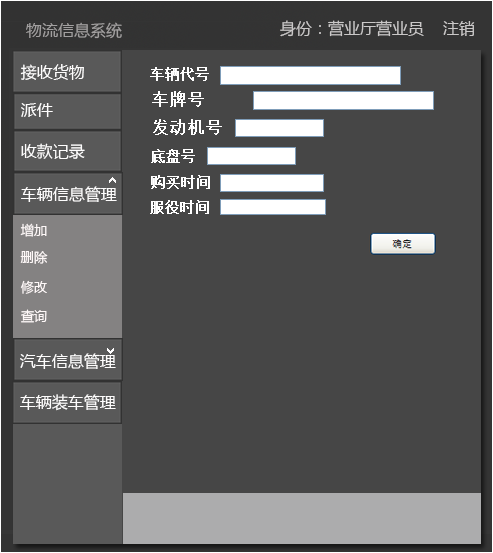
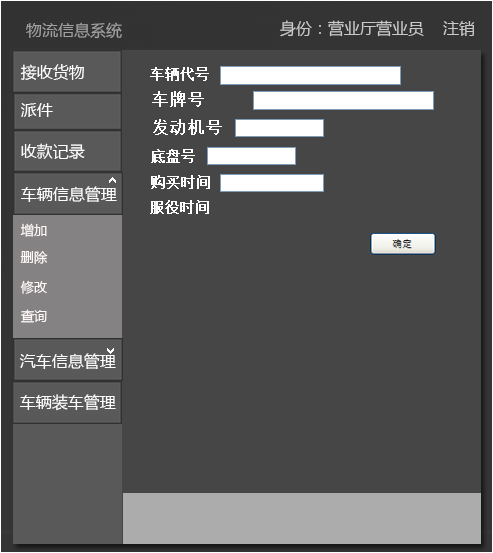
car

Changed region(s): [[0.426, 0.3382, 0.6694, 0.3996]]

diff --git a/ExpressSystem/client/src/main/java/nju/sec/yz/ExpressSystem/presentation/positionui/PositionCarAddUi.java b/ExpressSystem/client/src/main/java/nju/sec/yz/ExpressSystem/presentation/positionui/PositionCarAddUi.java
@@ -32,7 +32,7 @@ public class PositionCarAddUi extends JPanel{
 	private JTextField JTmechine;
 	private JTextField JTdipan;
 	private DateChooser buyTime;
-	private DateChooser workTime;
+	private JLabel workTime;
 	private JButton confirm;
 	private JLabel warning;
 	private ButtonComponents bc;
@@ -100,7 +100,11 @@ public class PositionCarAddUi extends JPanel{
 		
 		buyTime=new DateChooser(this, buyTime_x, buyTime_y);
 		
-		workTime=new DateChooser(this,workTime_x,workTime_y);
+		workTime=new JLabel();
+		workTime.setFont(new Font("Dialog",1,15));
+		workTime.setForeground(Color.WHITE);
+		workTime.setBounds(workTime_x, workTime_y, warning_w, warning_h);
+		add(workTime);
 
 		warning=new JLabel();
 		warning.setBounds(warning_x, warning_y, warning_w, warning_h);
@@ -129,6 +133,8 @@ public class PositionCarAddUi extends JPanel{
 					{
 						warning.setText("提交成功");
 						warning.setVisible(true);
+						workTime.setText(result.getMessage().substring(8));
+						workTime.setVisible(true);
 						repaint();
 					}
 					else{

diff --git a/ExpressSystem/client/src/main/java/nju/sec/yz/ExpressSystem/presentation/positionui/PositionCarModifyFillUi.java b/ExpressSystem/client/src/main/java/nju/sec/yz/ExpressSystem/presentation/positionui/PositionCarModifyFillUi.java
@@ -141,7 +141,8 @@ public class PositionCarModifyFillUi extends JPanel{
 					{
 						warning.setText("提交成功");
 						warning.setVisible(true);
-						workTime.setText(Integer.toString(carBl.getSingle(carvo.getId()).getWorktime()));
+						workTime.setText(result.getMessage().substring(8));
+						workTime.setVisible(true);
 						repaint();
 					}
 					else{

diff --git a/ExpressSystem/client/src/main/java/nju/sec/yz/ExpressSystem/presentation/controlerui/EnumStringSwitch.java b/ExpressSystem/client/src/main/java/nju/sec/yz/ExpressSystem/presentation/controlerui/EnumStringSwitch.java
@@ -1,0 +1,8 @@
+package nju.sec.yz.ExpressSystem.presentation.controlerui;
+
+public class EnumStringSwitch {
+	public String toString()
+	{
+		
+	}
+}
